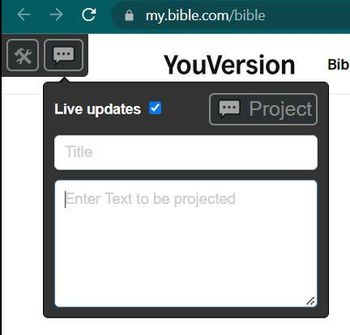
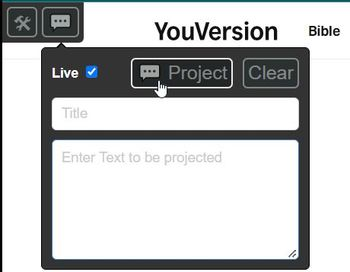
fix removeTab event (use chrome.tabs.onRemoved listener)

diff --git a/js/background.js b/js/background.js
@@ -26,6 +26,10 @@ chrome.windows.onBoundsChanged.addListener(win => {
   changeWindowsBounds(win);
 });
 
+chrome.tabs.onRemoved.addListener(() => {
+  checkIfLastTabClosed();
+});
+
 async function changeWindowsBounds(win) {
   const windows = await chrome.storage.sync.get(allWindows);
   const updateWin = Object.entries(windows).find(([key, w]) => w.id === win.id);
@@ -40,6 +44,7 @@ async function changeWindowsBounds(win) {
 chrome.runtime.onMessage.addListener((request, sender, sendResponse) => {
   switch (request.action) {
     case "createTab": {
+      // TODO https://developer.chrome.com/articles/multi-screen-window-placement/
       getWindow(projectorStorageKey, createProjectorTab).then((win, status) => {
         sendResponse({
           status,
@@ -47,11 +52,6 @@ chrome.runtime.onMessage.addListener((request, sender, sendResponse) => {
         });
       });
       return true;
-    }
-    case "removeTab": {
-      checkIfLastTabClosed(request.payload);
-      sendResponse({ status: 200 });
-      break;
     }
     case "focusTab": {
       chrome.windows.update(request.payload.id, { focused: true }).then(() => {
@@ -169,9 +169,7 @@ async function notifyOnWindowRemoved(windowId) {
   if (settings && settings.id === windowId) {
     await setWindowSettings(projectorStorageKey, null, settings);
 
-    const tabs = await chrome.tabs.query({
-      url: ["https://my.bible.com/bible/*"]
-    });
+    const tabs = await getBibleTabs();
     tabs.forEach(tab => {
       chrome.tabs.sendMessage(tab.id, {
         action: "windowRemoved",
@@ -192,17 +190,24 @@ async function closeSettingsWindow() {
 /**
  * wait until is removed then do tabs.query
  * to see if we should also close projector window (if is last)
- * @param id
  */
-function checkIfLastTabClosed(id) {
+function checkIfLastTabClosed() {
   setTimeout(async () => {
-    const tabs = await chrome.tabs.query({
-      url: ["https://my.bible.com/bible/*"]
-    });
+    const tabs = await getBibleTabs();
     if (!tabs.length) {
-      chrome.windows.remove(id);
+      const settings = await getWindowSettings(projectorStorageKey);
+      const existingId = settings ? settings.id : "";
+      if (existingId) {
+        chrome.windows.remove(existingId);
+      }
     } else {
       console.info("There are %d tabs opened", tabs.length, tabs);
     }
   }, 100);
+}
+
+function getBibleTabs() {
+  return chrome.tabs.query({
+    url: ["https://my.bible.com/bible*", "https://my.bible.com/*/bible*"]
+  });
 }

diff --git a/js/content-project.js b/js/content-project.js
@@ -8,17 +8,9 @@ window.addEventListener("load", () => {
   setTimeout(() => {
     cleanUp();
     createSettingsActions();
+    initEvents();
   }, 100);
-  initEvents();
 });
-
-window.onbeforeunload = function () {
-  if (chrome.runtime) {
-    if (projectTab) {
-      chrome.runtime.sendMessage({ action: "removeTab", payload: projectTab });
-    }
-  }
-};
 
 function createSettingsActions() {
   const actions = document.createElement("div");
@@ -63,11 +55,12 @@ function addLiveTextBox() {
   form.id = "live-text-box";
   form.innerHTML = `
     <div class="actions">
-      <label for="realTimeUpdates">Live updates
+      <label for="realTimeUpdates" title="Live updates">Live
         <input type="checkbox" name="realTimeUpdates" id="realTimeUpdates" checked/>
       </label>
       <span data-key="fill" class="fill"></span>
       <button type="submit" class="action-btn">💬 Project</button>
+      <button type="reset" class="action-btn">Clear</button>
     </div>
     <input type="text" name="liveTextTitle" id="liveTextTitle" placeholder="Title"/>
     <textarea name="liveText" id="liveText" cols="30" rows="6" placeholder="Enter Text to be projected"></textarea>
@@ -85,9 +78,13 @@ function createLiveTextForm() {
     e.preventDefault();
     projectLiveText(liveTextTitle.value, liveText.value);
   });
+  liveBoxForm.addEventListener("reset", () => {
+    projectText("");
+  });
   liveTextTitle.addEventListener(
     "input",
-    debounce(() => {
+    debounce(e => {
+      e.stopPropagation();
       if (liveBoxForm.realTimeUpdates.checked) {
         projectLiveText(liveTextTitle.value, liveText.value);
       }
@@ -95,7 +92,8 @@ function createLiveTextForm() {
   );
   liveText.addEventListener(
     "input",
-    debounce(() => {
+    debounce(e => {
+      e.stopPropagation();
       if (liveBoxForm.realTimeUpdates.checked) {
         projectLiveText(liveTextTitle.value, liveText.value);
       }
@@ -407,7 +405,9 @@ function initEvents() {
   if (app) {
     app.addEventListener("click", selectVersesToProject);
     document.addEventListener("keydown", e => {
-      selectByKeys(e.key);
+      if (!e.target.matches("input,textarea")) {
+        selectByKeys(e.key);
+      }
     });
     window.addEventListener("blur", () => {
       document.body.classList.add("focus-lost");

diff --git a/views/settings/options.html b/views/settings/options.html
@@ -4,7 +4,7 @@
     <meta charset="UTF-8" />
     <meta name="viewport" content="width=device-width, user-scalable=no, initial-scale=1.0, maximum-scale=1.0, minimum-scale=1.0" />
     <meta http-equiv="X-UA-Compatible" content="ie=edge" />
-    <title>Bible Display Options 🛠</title>
+    <title>🛠 Bible Display Options</title>
     <link rel="stylesheet" href="options.css" />
   </head>
   <body>

diff --git a/views/projector/tab.html b/views/projector/tab.html
@@ -4,7 +4,7 @@
     <meta charset="UTF-8" />
     <meta name="viewport" content="width=device-width, user-scalable=no, initial-scale=1.0, maximum-scale=1.0, minimum-scale=1.0" />
     <meta http-equiv="X-UA-Compatible" content="ie=edge" />
-    <title>Bible Verses</title>
+    <title>🔠 Bible Verses</title>
     <link rel="stylesheet" href="tab.css" />
   </head>
   <body>

diff --git a/css/style.css b/css/style.css
@@ -165,6 +165,9 @@ body .yv-footer .yv-footer-vertical-link-list li {
 body .yv-footer hr {
   margin: 5px 0 5px;
 }
+body .version-copyright {
+  font-size: 10px;
+}
 
 @media only screen and (min-width: 37.5em) {
   body .verse-action-footer {

diff --git a/README.md b/README.md
@@ -1,10 +1,10 @@
-# Chrome extension to for Bible.com (display verses on external Projector/Screen)
+# Chrome extension to for Bible.com
 
 ![icon](icon-48.png)
 
-This extension will help you project any verses in your Church,
+This extension will help you **project Bible verses in your Church**,
 You decide which version to display and also can project parallel versions
-or in 2 different languages.
+or in **2 different languages**.
 
 ## Features
 
@@ -17,6 +17,7 @@ or in 2 different languages.
   - [x] `ESC` to show blank page (hide all selected verses)
 - [x] 🛠 User Settings (top-left actions)
   - [x] Adjust css variables (padding, colors)
+  - [x] remember last windows position (projector & settings)
 - [x] 💬 Project "live text"
   - [x] input any text to be projected
   - [ ] Select any text from page and allow it to be projected
@@ -70,4 +71,3 @@ Actions
   - [ ] Customize styles for parallel vs primary
   - [ ] Empty Text display (ex. Church name, verse, motto, etc.)
     - [ ] Customize size & color
-  - [ ] remember last window position (projector & settings)
